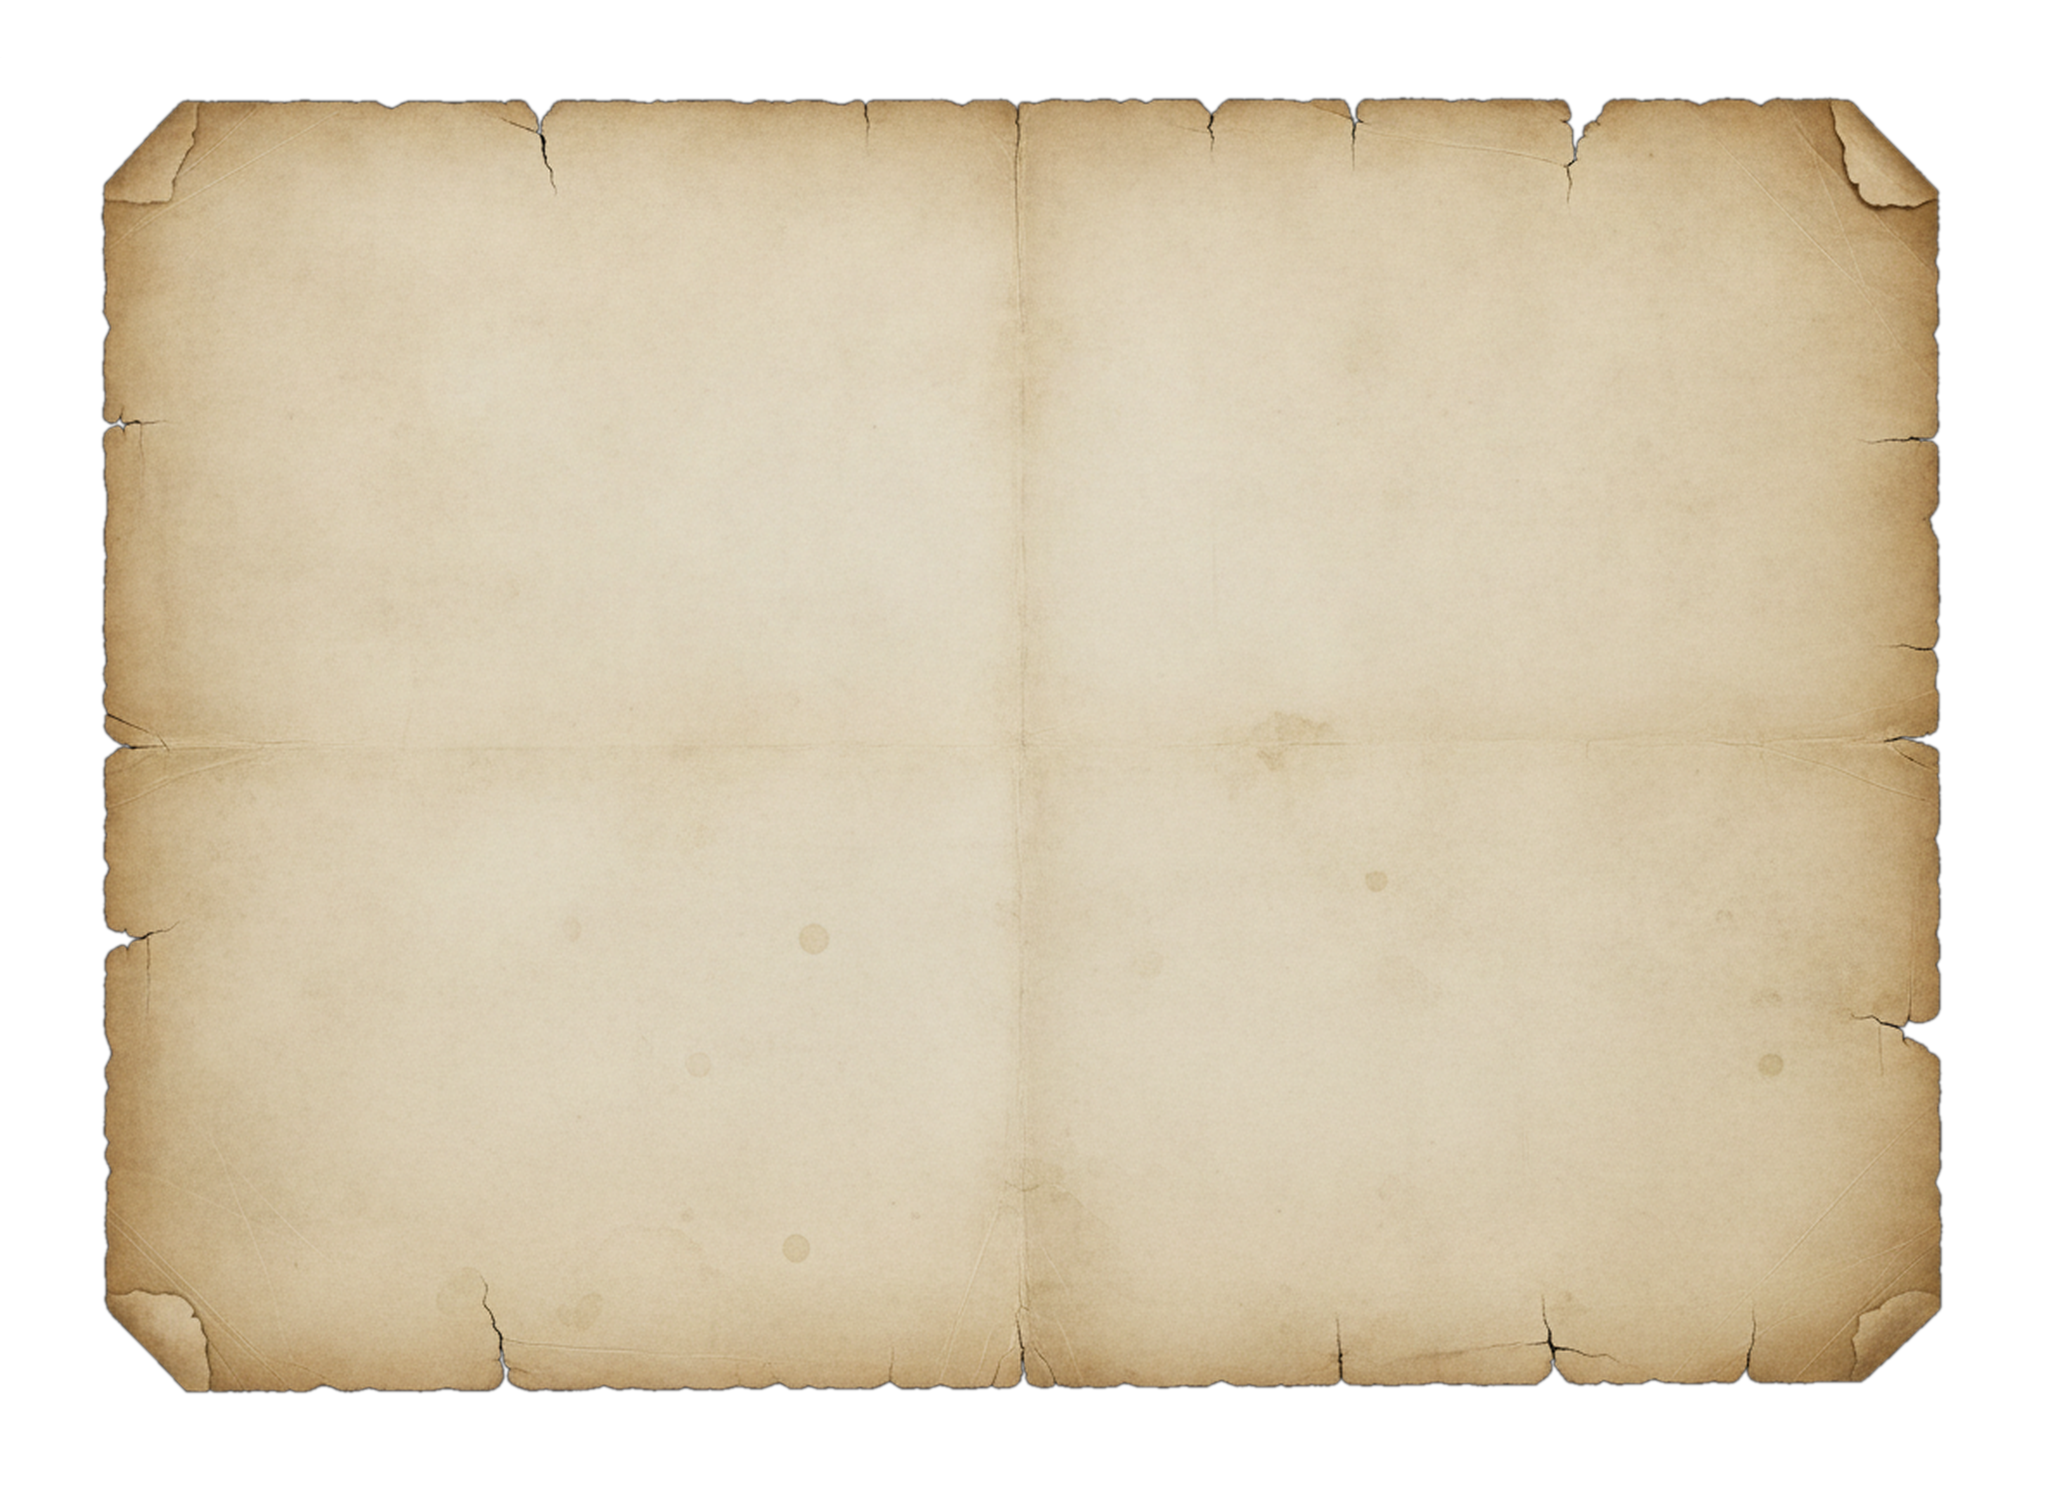
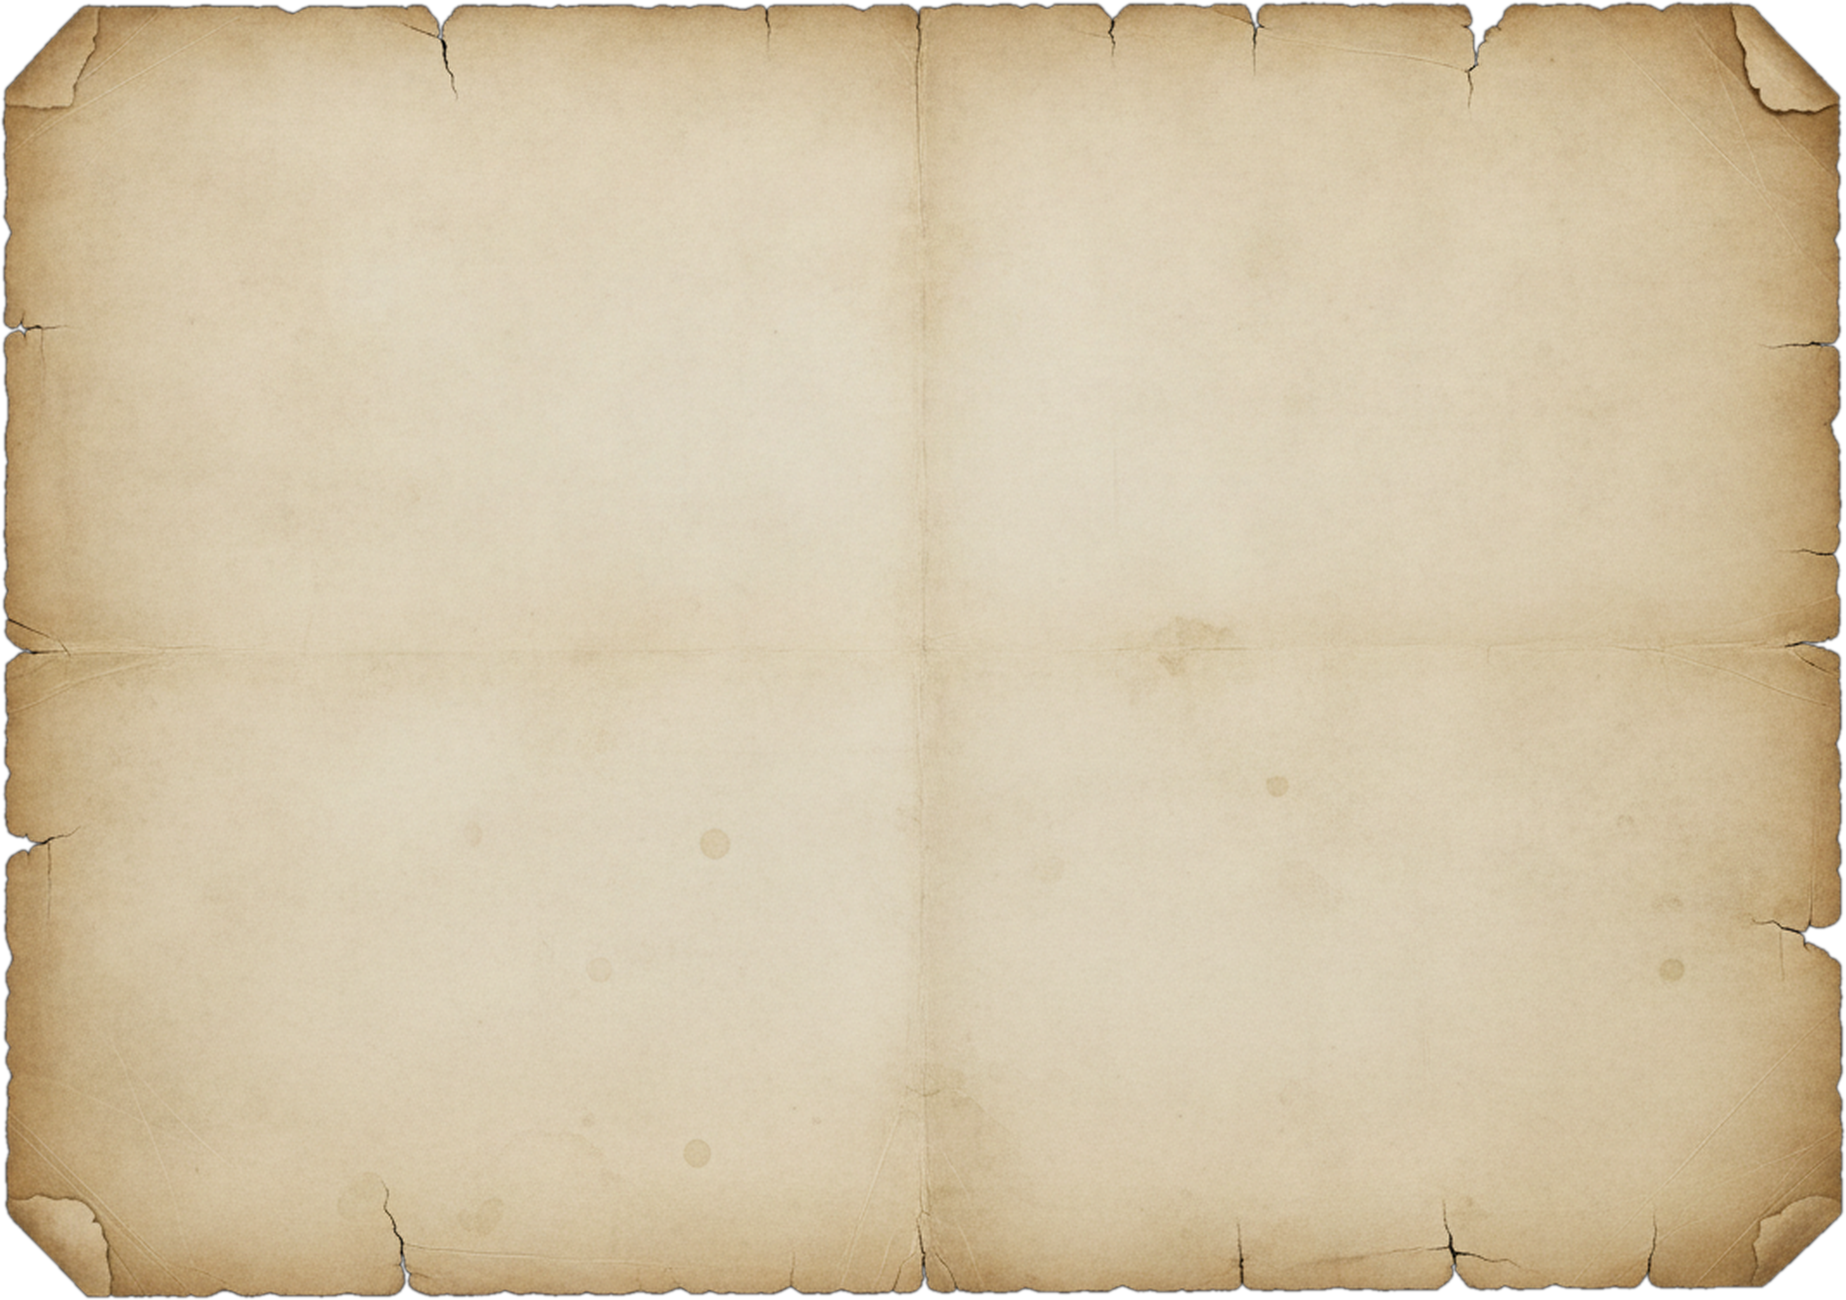
Map polish: shared styles, fill the MAP button, fit the parchment
Frontend:
- Extract the shared map presentation (icon sizing, hover label, roads) into
  web/src/lib/map.css, imported by both MapOverlay (player) and MapEditor so the
  two views can't drift; retarget each view's behaviour at the .map-* classes.
- Editor: outline each icon's clickable box (icons without a hotspot show their
  image bounds; hotspot icons show the .me-hit square).
- Player map: hovered icon grows 5% (was 12%), purely cosmetic — the image is
  pointer-events:none so the hit box stays original size.
- MAP button: drop the border and scale the parchment to fill the button area.
- Fix the player map's appear/disappear scrollbar feedback loop: cap the
  background by both width and height (aspect preserved, no width-driven height)
  and clip instead of scroll, so clientWidth no longer thrashes.

Backend:
- Route the overview-map background through a single MAP_BACKGROUND constant in
  engine.py, now images/maps/parchment2.png (used by both player and editor).

Game data: editor-persisted map hit hotspots, scale/pos tweaks, recomputed road
splines, and the cropped parchment art.

diff --git a/web/src/lib/MapOverlay.svelte b/web/src/lib/MapOverlay.svelte
@@ -7,6 +7,7 @@
   import { contentAsset } from './api.js';
   import { roadPath } from './maputil.js';   // shared with the admin map editor
   import { fade } from 'svelte/transition';
+  import './map.css';                        // shared .map-* styles (also used by MapEditor)
 
   let {
     block,                 // { image, nodes:[{id,title,icon,x,y,current,reachable,action,target}], roads:[{from,to}] }
@@ -43,7 +44,7 @@
 <div class="mo-modal" role="dialog" aria-label="Map" onclick={(e) => e.target === e.currentTarget && onClose?.()}>
   <div class="mo-card">
     <div class="mo" bind:clientWidth={cw} bind:clientHeight={ch}
-         style={imgOk ? '' : 'aspect-ratio:4/3'}>
+         style={imgOk ? '' : 'width:min(900px,90vw); aspect-ratio:4/3'}>
       <img class="mo-bg" src={contentAsset(block.image)} alt="" draggable="false"
            onload={() => (imgOk = true)} onerror={() => (imgOk = false)} />
       {#if !imgOk}
@@ -67,7 +68,7 @@
           </defs>
           {#each roads as r, i}
             {#if byId[r.from] && byId[r.to]}
-              <path class="mo-road" fill="none" stroke={`url(#moroad${i})`} d={roadPath(byId, r, cw, ch)} />
+              <path class="map-road" fill="none" stroke={`url(#moroad${i})`} d={roadPath(byId, r, cw, ch)} />
             {/if}
           {/each}
           {#if walk}
@@ -86,7 +87,7 @@
                role="button" tabindex={n.reachable && !n.hit ? 0 : -1} aria-label={`Go to ${n.title}`}
                onclick={() => pick(n)} onkeydown={(e) => (e.key === 'Enter' || e.key === ' ') && pick(n)}
                onmouseenter={() => (hovered = n.id)} onmouseleave={() => (hovered === n.id && (hovered = null))}>
-            <img class="mo-icon" style={`--mo-scale:${n.scale ?? 1}`}
+            <img class="map-icon" style={`--map-scale:${n.scale ?? 1}`}
                  src={contentAsset(n.icon)} alt={n.title} draggable="false" />
           </div>
           {#if n.hit}
@@ -106,7 +107,7 @@
             <!-- |global so the fade still plays when the surrounding {#if hovered}
                  toggles (moving between icons briefly clears `hovered`); a plain
                  local transition would be suppressed by that ancestor change. -->
-            <div class="mo-hover-lbl" in:fade|global={{ duration: 200 }} out:fade|global={{ duration: 200 }}>{byId[hovered].title}</div>
+            <div class="map-label" in:fade|global={{ duration: 200 }} out:fade|global={{ duration: 200 }}>{byId[hovered].title}</div>
           {/key}
         {/if}
 
@@ -122,35 +123,36 @@
   /* A layer above the rest of the game UI, with a thin transparent border. */
   .mo-modal { position:fixed; inset:0; z-index:50; display:flex; align-items:center;
     justify-content:center; background:rgba(0,0,0,.72); padding:1.5rem; }
-  .mo-card { position:relative; width:min(1100px, 96vw); max-height:94vh; overflow:auto;
-    border:1px solid transparent; border-radius:10px; line-height:0; }
-  .mo { position:relative; width:100%; }
-  .mo-bg { display:block; width:100%; height:auto; border-radius:10px; }
+  /* The card shrinks to the image (flex item → content size). The image is capped by
+     BOTH width and height with width/height:auto, so it always fits the viewport with
+     its aspect preserved — no width-driven height that could overflow. overflow:hidden
+     guarantees no scrollbar, killing the appear/disappear feedback loop. */
+  .mo-card { position:relative; max-width:min(1100px, 96vw); max-height:94vh; overflow:hidden;
+    border-radius:10px; line-height:0; display:flex; }
+  .mo { position:relative; }
+  .mo-bg { display:block; width:auto; height:auto; max-width:min(1100px, 96vw); max-height:94vh;
+    border-radius:10px; }
   .mo-missing { position:absolute; inset:0; display:flex; flex-direction:column; align-items:center;
     justify-content:center; text-align:center; color:#9a9ab0; font-size:.9rem; line-height:1.4; }
   .mo-svg { position:absolute; left:0; top:0; overflow:visible; pointer-events:none; }
-  .mo-road { stroke-width:4; stroke-linecap:round; }
+  /* Icon image (.map-icon), hover label (.map-label) and roads (.map-road) are styled
+     in the shared ./map.css; only player-specific behaviour lives here. */
 
   .mo-node { position:absolute; transform:translate(-50%, -50%); }
-  .mo-icon { width:calc(clamp(56px, 9.8vw, 101px) * var(--mo-scale, 1)); height:auto; display:block; line-height:0;
-    filter:drop-shadow(0 2px 3px rgba(0,0,0,.5)); transition:transform .12s, filter .12s; }
-  /* The hovered icon's name, shown large and centred ~13% down from the top. */
-  .mo-hover-lbl { position:absolute; left:50%; top:13%; transform:translate(-50%, -50%);
-    z-index:15; pointer-events:none; white-space:nowrap; font:700 clamp(20px, 3.2vw, 38px) Georgia, serif;
-    color:#2e2114; text-shadow:0 1px 0 rgba(255,250,240,.9), 0 2px 10px rgba(255,248,235,.7); }
   .mo-node.disabled { opacity:.45; filter:grayscale(.5); }
   .mo-node.reachable { cursor:pointer; }
   /* When a hotspot square owns the pointer, the icon is inert; its hover-grow is
      then driven by the shared `hovered` state instead of the icon's own :hover. */
   .mo-node.withhit { pointer-events:none; }
-  .mo-node.reachable:hover .mo-icon,
-  .mo-node.reachable.hovered .mo-icon { transform:scale(1.12); filter:drop-shadow(0 3px 6px rgba(0,0,0,.6)); }
+  /* Hover grows the icon 5% (animated via .map-icon's transition:transform). */
+  .mo-node.reachable:hover .map-icon,
+  .mo-node.reachable.hovered .map-icon { transform:scale(1.05); filter:drop-shadow(0 3px 6px rgba(0,0,0,.6)); }
   /* The hotspot hit-area: invisible until hovered, then a faint ink outline. */
   .mo-hit { position:absolute; transform:translate(-50%, -50%); z-index:6; box-sizing:border-box;
     border:1.5px dashed transparent; border-radius:5px; transition:border-color .15s, background .15s; }
   .mo-hit.reachable { cursor:pointer; }
   .mo-hit:hover { border-color:rgba(46,33,20,.5); background:rgba(46,33,20,.06); }
-  .mo-node.current .mo-icon { filter:drop-shadow(0 0 0 #c0563a) drop-shadow(0 0 6px rgba(192,86,58,.9));
+  .mo-node.current .map-icon { filter:drop-shadow(0 0 0 #c0563a) drop-shadow(0 0 6px rgba(192,86,58,.9));
     animation:mopulse 1.8s infinite; }
   @keyframes mopulse { 0%,100%{transform:scale(1)} 50%{transform:scale(1.08)} }
 

diff --git a/web/src/lib/MapEditor.svelte b/web/src/lib/MapEditor.svelte
@@ -7,6 +7,7 @@
   // Coordinates are normalized 0..1 against the parchment, matching the player map.
   import { api, contentAsset } from './api.js';
   import { roadPath } from './maputil.js';   // shared with the player map (MapOverlay)
+  import './map.css';                        // shared .map-* styles (also used by MapOverlay)
 
   let { onClose } = $props();
 
@@ -282,7 +283,7 @@
               </defs>
               {#each roads as r, i}
                 {#if byId[r.from] && byId[r.to] && visible.has(r.from) && visible.has(r.to)}
-                  <path class="me-road" fill="none" stroke={`url(#meroad${i})`} d={roadPath(byId, r, cw, ch)} />
+                  <path class="map-road" fill="none" stroke={`url(#meroad${i})`} d={roadPath(byId, r, cw, ch)} />
                 {/if}
               {/each}
               {#if drawFrom && byId[drawFrom] && cursor}
@@ -292,11 +293,14 @@
             </svg>
             {#each nodes as n}
               {#if visible.has(n.id)}
+              <!-- clickbox: icons WITHOUT a hotspot click via their image bounds, so
+                   outline that box. Icons WITH a hit get the .me-hit square instead. -->
               <div class="me-icon" class:dragging={drag?.loc === n.id} class:drawsrc={drawFrom === n.id}
-                   style={`left:${n.x * cw}px; top:${n.y * ch}px; --s:${n.scale ?? 1}`}
+                   class:clickbox={!n.hit}
+                   style={`left:${n.x * cw}px; top:${n.y * ch}px; --map-scale:${n.scale ?? 1}`}
                    onpointerdown={(e) => startDrag(e, n)}
                    onmouseenter={() => (hovered = n.id)} onmouseleave={() => (hovered === n.id && (hovered = null))}>
-                <img src={contentAsset(n.icon)} alt={n.title} draggable="false" />
+                <img class="map-icon" src={contentAsset(n.icon)} alt={n.title} draggable="false" />
               </div>
               {/if}
             {/each}
@@ -316,7 +320,7 @@
             {/each}
 
             {#if hovered && byId[hovered] && visible.has(hovered)}
-              <div class="me-hover-lbl">{byId[hovered].title}</div>
+              <div class="map-label">{byId[hovered].title}</div>
             {/if}
 
             {#if selected && byId[selected] && visible.has(selected)}
@@ -369,10 +373,14 @@
   .me-missing { position:absolute; inset:0; display:flex; align-items:center; justify-content:center;
     color:#9a9ab0; font-size:.9rem; }
   .me-svg { position:absolute; left:0; top:0; overflow:visible; pointer-events:none; }
-  .me-road { stroke-width:4; stroke-linecap:round; }   /* gradient stroke set inline (matches player) */
+  /* Icon image (.map-icon), hover label (.map-label) and roads (.map-road) are styled
+     in the shared ./map.css; only editor-specific affordances live here. */
   .me-icon { position:absolute; transform:translate(-50%, -50%); cursor:grab;
     touch-action:none; user-select:none; }
   .me-icon.dragging { cursor:grabbing; z-index:5; }
+  /* A thin outline of each icon's fallback clickable box (icons with a hotspot show
+     the .me-hit square instead). Outline doesn't grow the box, so centring holds. */
+  .me-icon.clickbox { outline:1px dashed rgba(192,86,58,.45); outline-offset:0; border-radius:3px; }
   .me-icon.drawsrc img { filter:drop-shadow(0 0 0 #c0563a) drop-shadow(0 0 7px rgba(192,86,58,.95)); }
   /* The interactive hotspot square (centred on the icon). Faint until selected. */
   .me-hit { position:absolute; transform:translate(-50%, -50%); z-index:8; box-sizing:border-box;
@@ -386,13 +394,6 @@
   .me-hint { position:absolute; left:50%; top:8px; transform:translateX(-50%); z-index:20;
     background:rgba(192,86,58,.92); color:#fff; font:600 12px Georgia, serif; padding:.3rem .7rem;
     border-radius:6px; pointer-events:none; white-space:nowrap; box-shadow:0 2px 8px rgba(0,0,0,.4); }
-  /* Match the player map's icon sizing so the editor shows the true on-map scale. */
-  .me-icon img { width:calc(clamp(56px, 9.8vw, 101px) * var(--s, 1)); height:auto; display:block;
-    filter:drop-shadow(0 2px 3px rgba(0,0,0,.5)); pointer-events:none; }
-  /* The hovered icon's name, shown large and centred ~10% down from the top. */
-  .me-hover-lbl { position:absolute; left:50%; top:10%; transform:translate(-50%, -50%);
-    z-index:15; pointer-events:none; white-space:nowrap; font:700 clamp(20px, 3.2vw, 38px) Georgia, serif;
-    color:#2e2114; text-shadow:0 1px 0 rgba(255,250,240,.9), 0 2px 10px rgba(255,248,235,.7); }
   .me-scale { position:absolute; transform:translate(-50%, -135%); z-index:10; display:flex;
     align-items:center; gap:.4rem; background:rgba(18,20,28,.96); border:1px solid #3a456a;
     border-radius:6px; padding:.25rem .5rem; white-space:nowrap; pointer-events:auto;

diff --git a/web/src/App.svelte b/web/src/App.svelte
@@ -1071,14 +1071,14 @@
   /* The map-access button: the word MAP is baked into the aged parchment image,
      sized to match the location banner's height. */
   .mapthumb { flex:0 0 auto; width:186px; height:140px; padding:0; cursor:pointer;
-    border:1px solid #2a2e3e; border-radius:8px; overflow:hidden; background:#0d0e14;
-    transition:border-color .15s; }
-  .mapthumb img { display:block; width:100%; height:100%; object-fit:cover; transition:filter .15s, transform .15s; }
-  .mapthumb:hover { border-color:#cdbb9a; }
-  .mapthumb:hover img { filter:brightness(1.06); transform:scale(1.02); }
+    border:none; border-radius:8px; overflow:hidden; background:transparent; }
+  /* Scale the parchment up so it fills the button: the source PNG has transparent
+     margins around the art, which overflow:hidden then crops away. */
+  .mapthumb img { display:block; width:100%; height:100%; object-fit:cover; transform:scale(1.2);
+    transition:filter .15s, transform .15s; }
+  .mapthumb:hover img { filter:brightness(1.06); transform:scale(1.24); }
   .mapthumb:disabled { opacity:.5; cursor:default; }
-  .mapthumb:disabled:hover { border-color:#2a2e3e; }
-  .mapthumb:disabled:hover img { filter:none; transform:none; }
+  .mapthumb:disabled:hover img { filter:none; transform:scale(1.2); }
   .banner .setting { position:absolute; bottom:.4rem; right:.6rem; font-size:.75rem; color:#cdbb9a; background:rgba(0,0,0,.45); padding:.1rem .45rem; border-radius:4px; }
   .vol { display:flex; align-items:center; gap:.5rem; margin:.6rem 0 0; font-size:.9rem; color:#9a9ab0; }
   .vol input[type=range] { flex:1; accent-color:#7a7ad0; cursor:pointer; }

diff --git a/web/src/lib/map.css b/web/src/lib/map.css
@@ -1,0 +1,26 @@
+/* Shared map presentation — imported by BOTH the player map (MapOverlay) and the
+   admin map editor (MapEditor) so the two views stay visually identical and a tweak
+   here lands in both at once. Plain (unscoped) CSS: these .map-* classes are used
+   verbatim in both components' markup. View-specific behaviour (hover-scale, drag,
+   hotspot editing, the walk trail) stays in each component's own scoped <style>. */
+
+/* Location icon image. Size = a viewport-clamped base times the per-icon
+   --map-scale. Non-interactive, so any hover-grow is purely cosmetic and never
+   enlarges the click target. */
+.map-icon {
+  width: calc(clamp(56px, 9.8vw, 101px) * var(--map-scale, 1));
+  height: auto; display: block; line-height: 0; pointer-events: none;
+  filter: drop-shadow(0 2px 3px rgba(0, 0, 0, .5));
+  transition: transform .12s, filter .12s;
+}
+
+/* The hovered icon's name — large, centred, ~13% down from the top of the map. */
+.map-label {
+  position: absolute; left: 50%; top: 13%; transform: translate(-50%, -50%);
+  z-index: 15; pointer-events: none; white-space: nowrap;
+  font: 700 clamp(20px, 3.2vw, 38px) Georgia, serif; color: #2e2114;
+  text-shadow: 0 1px 0 rgba(255, 250, 240, .9), 0 2px 10px rgba(255, 248, 235, .7);
+}
+
+/* Roads between icons. The gradient stroke itself is set inline per edge. */
+.map-road { stroke-width: 4; stroke-linecap: round; }

diff --git a/api/app/engine.py b/api/app/engine.py
@@ -207,6 +207,10 @@ def _resolve_name(char, known: bool) -> tuple[str, str | None, bool]:
 # map (reached via the few remaining in-place buttons).
 _PLACE_TYPES = ("location", "gate", "ending")
 
+# The overview-map parchment backdrop, served from /content. Both the player map and
+# the admin editor use this same image so their layouts line up.
+MAP_BACKGROUND = "images/maps/parchment2.png"
+
 
 def _jmap(v) -> dict:
     if v is None:
@@ -428,7 +432,7 @@ async def unified_map_block(conn, player_id, node, story_time: int) -> tuple[dic
                     rd = {"from": k[0], "to": k[1], "points": []}
                     seen[k] = rd; roads.append(rd)
 
-    block = {"image": "images/maps/parchment.png", "nodes": nodes, "roads": roads}
+    block = {"image": MAP_BACKGROUND, "nodes": nodes, "roads": roads}
     return block, on_map
 
 
@@ -506,7 +510,7 @@ async def map_overview(conn) -> dict:
     start_cell = await conn.fetchval(
         """SELECT l.cell_id FROM story_nodes n JOIN locations l ON l.id = n.location_id
            WHERE n.is_entry LIMIT 1""")
-    return {"image": "images/maps/parchment.png", "nodes": nodes, "roads": roads,
+    return {"image": MAP_BACKGROUND, "nodes": nodes, "roads": roads,
             "bounds": bounds, "start_cell": start_cell}
 
 
